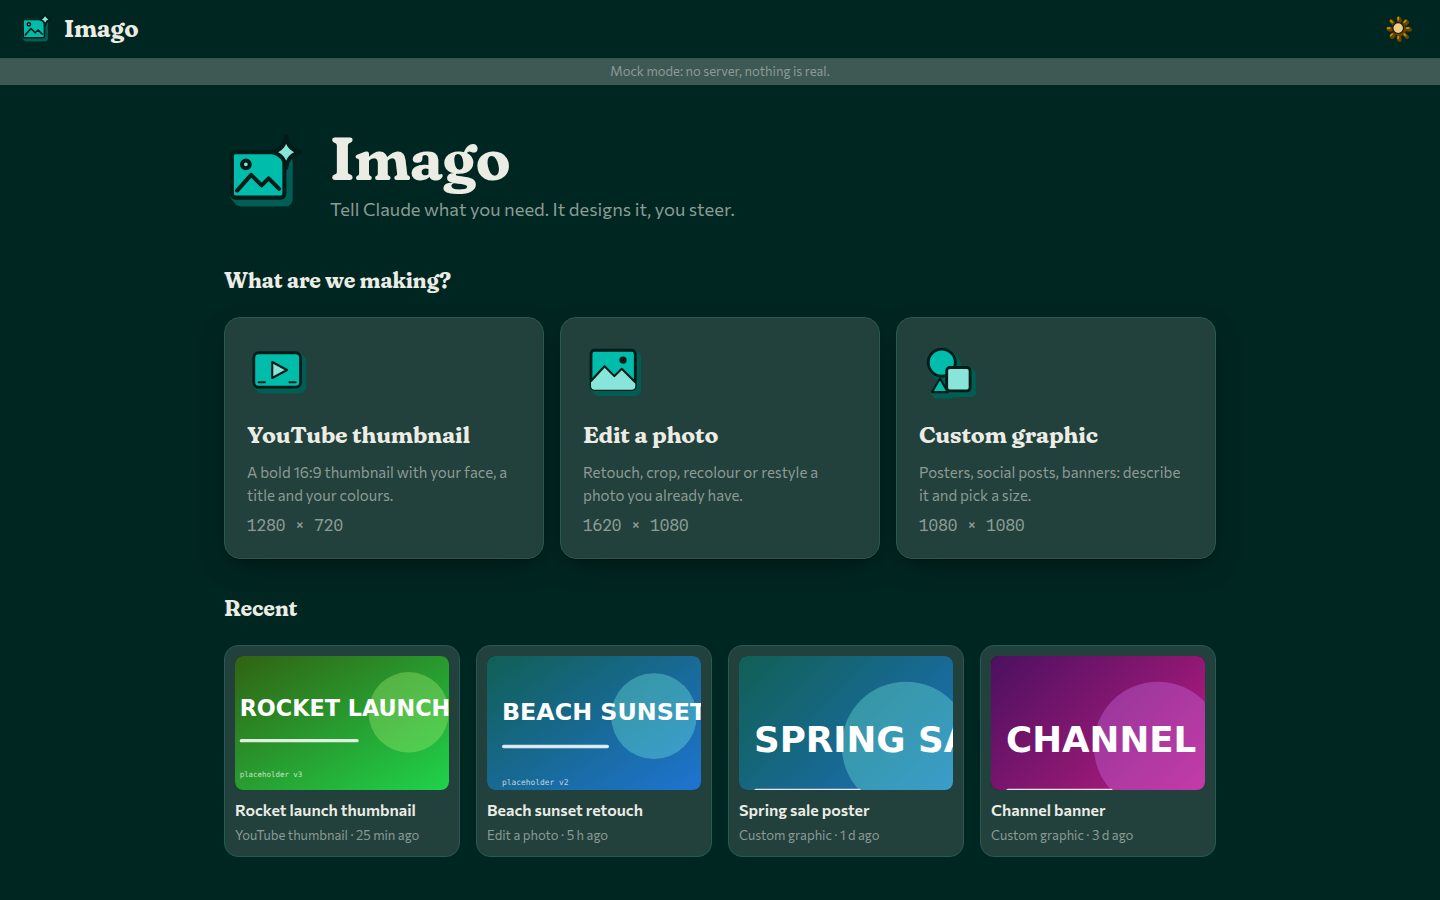
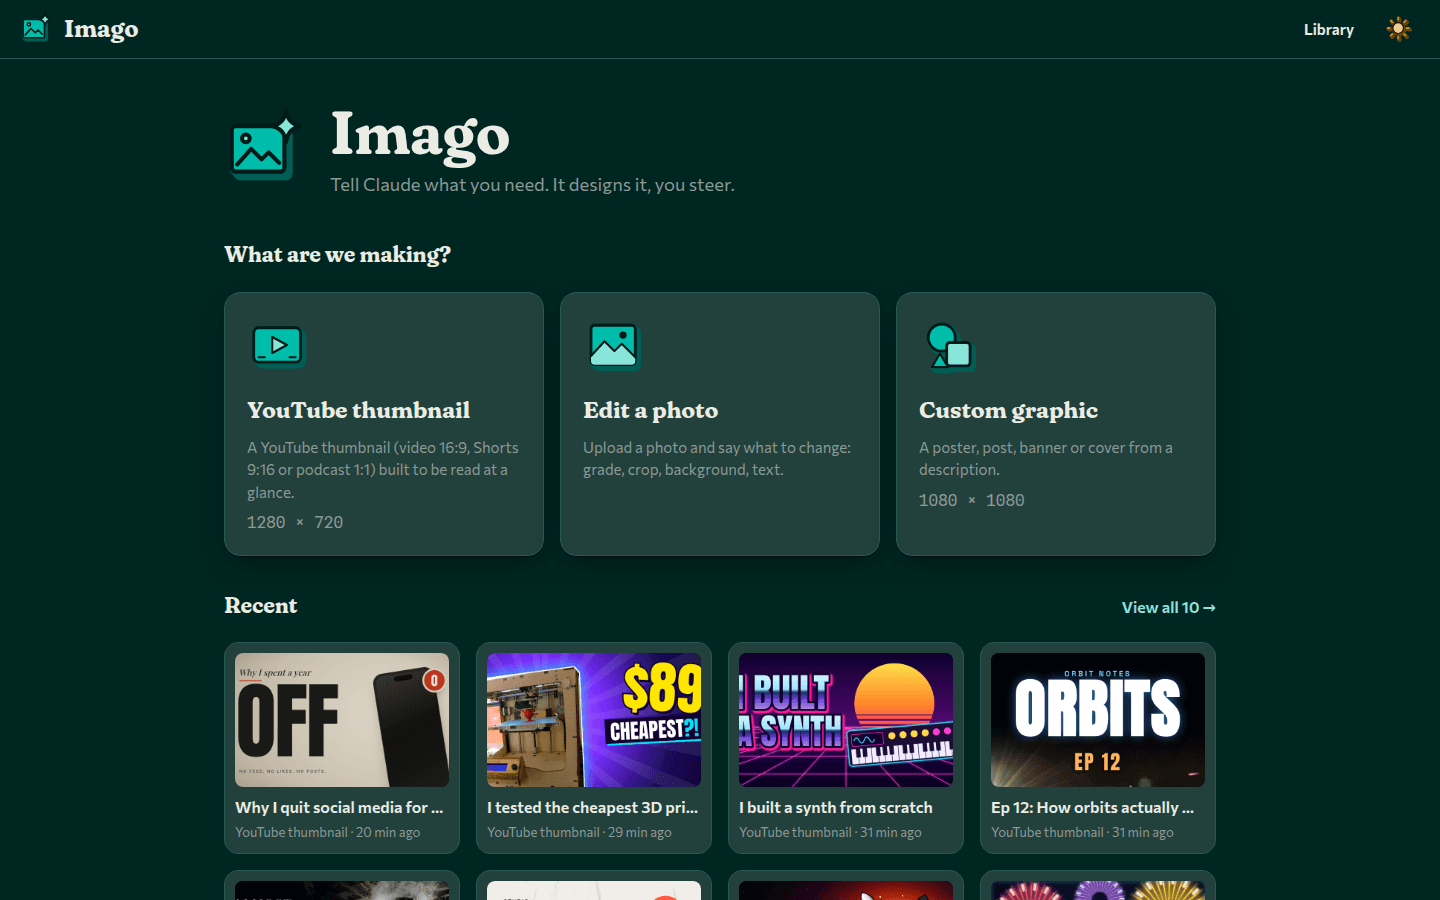
Bring the README in line with the brand v2 rules
The README opens with the freestanding animated icon and the launcher's
one-line description word for word, ends with the family footer and the
licence, and shows real screenshots of the current app (start, library,
workspace, Take it further, and the thumbnail form in light) in place of
the old mock-mode captures. None of them shows a person.

diff --git a/README.md b/README.md
@@ -1,15 +1,17 @@
 ![Imago banner](docs/images/imago-banner.png)
 
+<p align="center"><img src="docs/brand/imago-animated.svg" alt="Imago, a framed picture with a sparkle" width="96" /></p>
+
 # Imago
 
-Imago designs thumbnails, photo edits and graphics with your own Claude Code. You describe the image
+Design thumbnails, photo edits and graphics with your own Claude Code. You describe the image
 and Claude writes it as HTML, CSS and SVG, looks at its own render, and fixes what is wrong. You ask
 for changes in plain words and export a PNG, JPG or WebP.
 
 Current version: **0.2.0**. Imago 0.2.0 replaced the earlier Konva layer editor and its 34-tool MCP
 server; the old document model is gone.
 
-![Imago workspace with a finished thumbnail](docs/images/screenshots/08-workspace-done-dark.png)
+![Imago workspace with a finished thumbnail](docs/images/screenshots/03-workspace-dark.png)
 
 ## Presets
 
@@ -22,7 +24,7 @@ server; the old document model is gone.
 Exports go up to 8192 px on the long side. After a thumbnail export Imago shows the file size and
 warns when it is over 2 MB, the limit for uploads from the YouTube mobile app (desktop allows 50 MB).
 
-![The thumbnail form, light theme](docs/images/screenshots/03-form-thumbnail-light.png)
+![The thumbnail form, light theme](docs/images/screenshots/05-form-thumbnail-light.png)
 
 Each turn shows Claude Code's cost estimate (`total_cost_usd`). That is an API-price figure. On a
 subscription nothing is charged for it; it is there so you can see what a turn weighs. Ordinary turns
@@ -36,6 +38,8 @@ Fable 5.1 at high effort, with up to eight render-and-critique rounds, web searc
 stock images from Openverse (credits are kept and shown with the design). Fable uses the most of
 your plan. Anything typed in the message box goes along as direction.
 
+![A design after Take it further on Fable 5.1, with the model badge on the turn](docs/images/screenshots/04-take-it-further-dark.png)
+
 ## Library and series
 
 The Start screen shows the latest designs; **Library** holds all of them, with search, filters by
@@ -48,6 +52,8 @@ A **series** keeps a channel's look consistent. **New in this style** starts a n
 series with the source's render and HTML as a style reference, so the layout, type, colours and
 badges carry over and only the episode's content changes. Only channel settings (colours, format)
 carry over from the source's brief, never its episode notes.
+
+![The library filtered to designs without a series](docs/images/screenshots/02-library-dark.png)
 
 ## Requirements
 
@@ -71,7 +77,7 @@ npm start         # server on http://127.0.0.1:49321
 ```
 
 `npm run dev` runs the server and Vite together for working on the UI. Opening the page with
-`?mock=1` runs the UI against canned data, with no server. The screenshots here were taken that way.
+`?mock=1` runs the UI against canned data, with no server.
 
 | Variable | Default | Meaning |
 | --- | --- | --- |
@@ -138,9 +144,9 @@ spent. Developer notes are in [CLAUDE.md](CLAUDE.md).
 
 ## Licence and family
 
-Imago is MIT licensed. Bundled fonts and libraries keep their own licences; the interface type
-(Fraunces, Commissioner, Spline Sans Mono) is SIL OFL 1.1, copied with its licence files.
+Imago is MIT licensed (see [LICENSE](LICENSE)). Bundled fonts and libraries keep their own licences; the
+interface type (Fraunces, Commissioner, Spline Sans Mono) is SIL OFL 1.1, copied with its licence files.
 
-Imago is part of [Instrumenta](https://github.com/George-Nizor/Instrumenta), made by Bonehead Labs,
-and follows the Instrumenta brand v2: a teal framed picture with a sparkle, drawn as a freestanding
-object.
+Imago is part of [Instrumenta](https://github.com/George-Nizor/Instrumenta), made by
+Bonehead Labs, and follows the Instrumenta brand v2: a teal framed
+picture with a sparkle, drawn as a freestanding object.
